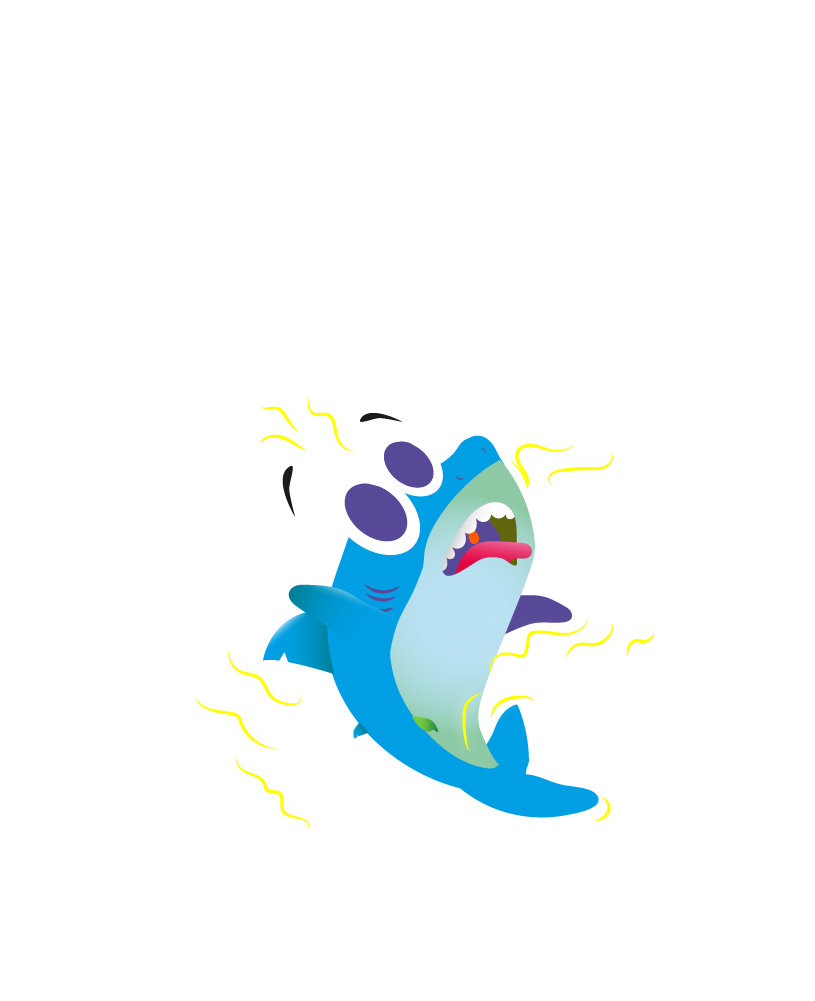
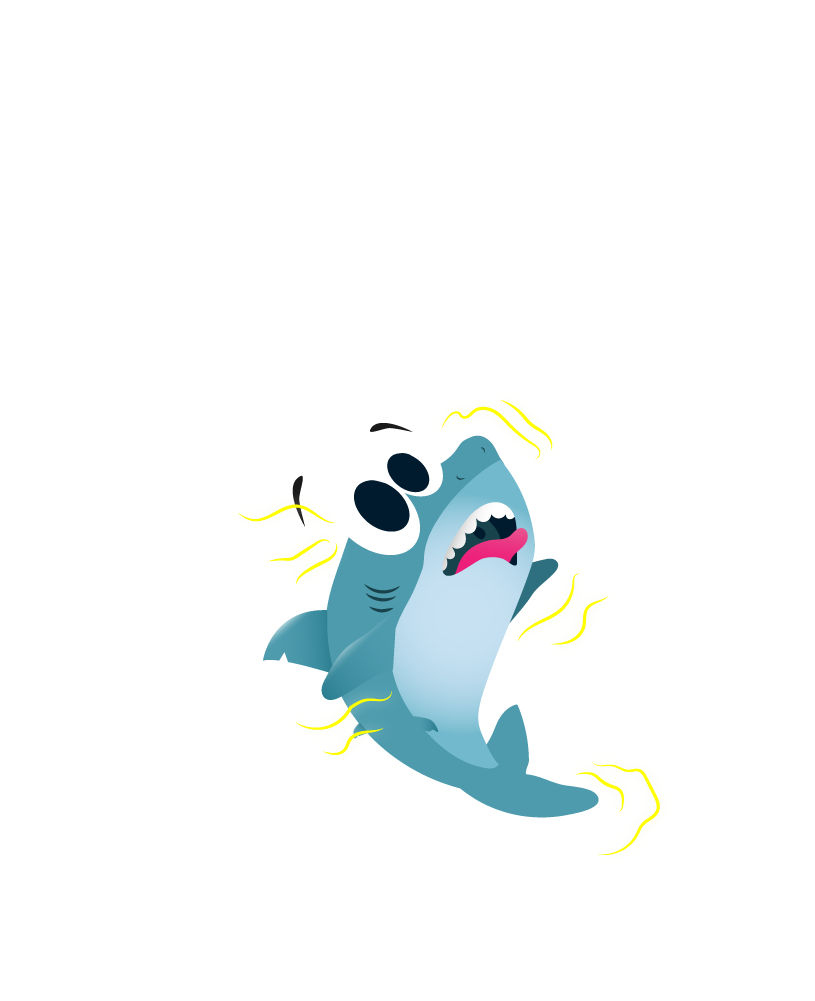
added electric damage and hurt animation

diff --git a/models/character.class.js b/models/character.class.js
@@ -67,6 +67,15 @@ class Character extends MovableObject {
         'img/1.Sharkie/5.Hurt/1.Poisoned/4.png',
     ];
 
+    IMAGES_ELECTRIC_HURT = [
+        'img/1.Sharkie/5.Hurt/2.Electric shock/1.png',
+        'img/1.Sharkie/5.Hurt/2.Electric shock/2.png',
+        'img/1.Sharkie/5.Hurt/2.Electric shock/3.png',
+        'img/1.Sharkie/5.Hurt/2.Electric shock/4.png',
+        'img/1.Sharkie/5.Hurt/2.Electric shock/5.png'
+
+    ];
+
     IMAGES_FINSLAP = [
         'img/1.Sharkie/4.Attack/Fin slap/1.png',
         'img/1.Sharkie/4.Attack/Fin slap/2.png',
@@ -101,6 +110,8 @@ class Character extends MovableObject {
     lastKeyPressTime = Date.now();
     isLongIdle = false;
     currentLongIdleImageIndex = 0;
+    isAlive = true;
+    isElectricHurt = false;
     isFinSlapAnimating = false;
     attackCooldown = false;
     attackCooldownTime = 600;
@@ -117,6 +128,7 @@ class Character extends MovableObject {
         this.loadImages(this.IMAGES_LONG_IDLE);
         this.loadImages(this.IMAGES_DEAD);
         this.loadImages(this.IMAGES_HURT);
+        this.loadImages(this.IMAGES_ELECTRIC_HURT);
         this.loadImages(this.IMAGES_FINSLAP);
         this.loadImages(this.IMAGES_SHOOT);
         this.keyboard = keyboard;
@@ -144,27 +156,34 @@ class Character extends MovableObject {
         this.checkKeyboardInput();
         this.updateCurrentAnimation();
         this.handleMovement();
-
+    
         if (this.isDead()) {
             this.playDeadAnimation(this.IMAGES_DEAD);
             return;
         }
-
-        if (this.isHurt()) {
-            this.playHurtAnimation();
-            return;
+    
+        if (this.isElectricHurt) {
+            // Wenn der Charakter elektrisch verletzt ist, spiele die elektrische Verletzungsanimation
+            this.playElectricHurtAnimation();
+            return; // Beende hier die Funktion, um die normale Hurt Animation zu verhindern
         }
-
+        
+        if (this.isHurt()) {
+            // Wenn der Charakter normal verletzt ist, spiele die Hurt-Animation
+            this.playAnimation(this.IMAGES_HURT);
+            return; // Beende die Funktion, um zu verhindern, dass weitere Animationen gestartet werden
+        }
+    
         if (this.isFinSlapAnimating) {
             this.playFinSlapAnimation();
             return;
         }
-
+    
         this.playCurrentAnimation();
     }
 
-    playHurtAnimation() {
-        this.playAnimation(this.IMAGES_HURT);
+    playElectricHurtAnimation() {
+        this.playAnimation(this.IMAGES_ELECTRIC_HURT);
     }
 
     playCurrentAnimation() {

diff --git a/models/movable-object.class.js b/models/movable-object.class.js
@@ -8,7 +8,7 @@ class MovableObject extends DrawableObject {
 
     isColliding(mo) {
         // Durchführung der Kollisionserkennung mit logischem ODER
-        return !( !(this.getHitbox().x < mo.getHitbox().x + mo.getHitbox().width) ||
+        return !(!(this.getHitbox().x < mo.getHitbox().x + mo.getHitbox().width) ||
             !(this.getHitbox().x + this.getHitbox().width > mo.getHitbox().x) ||
             !(this.getHitbox().y < mo.getHitbox().y + mo.getHitbox().height) ||
             !(this.getHitbox().y + this.getHitbox().height > mo.getHitbox().y));
@@ -16,11 +16,13 @@ class MovableObject extends DrawableObject {
 
     hit() {
         this.energy -= 10;
+        this.world.character.isElectricHurt = false;
         if (this.energy < 0) {
             this.energy = 0;
         } else {
             this.lastHit = new Date().getTime();
         }
+        console.log(world.character.isElectricHurt);
     }
 
     bubbleHit() {
@@ -30,6 +32,25 @@ class MovableObject extends DrawableObject {
         } else {
             this.lastHit = new Date().getTime();
         }
+    }
+
+    electricHit() {
+        this.energy -= 40;
+        this.world.character.isElectricHurt = true;
+
+        if (this.energy < 0) {
+            this.energy = 0;
+        } else {
+            this.lastHit = new Date().getTime();
+        }
+        console.log(this.world.character.isElectricHurt);
+
+        // Setzen Sie einen Timer, um isElectricHurt nach Ablauf einer bestimmten Zeit zu aktualisieren
+        setTimeout(() => {
+            let timePassed = new Date().getTime() - this.lastHit;
+            this.world.character.isElectricHurt = false;
+            console.log(this.world.character.isElectricHurt);
+        }, 1000);
     }
 
     isDead() {

diff --git a/models/world.class.js b/models/world.class.js
@@ -70,10 +70,17 @@ class World {
 
     checkCollisions() {
         this.level.enemies.forEach((enemy, enemyIndex) => {
+            // Überprüfen, ob der Charakter mit einem Gegner kollidiert
             if (this.character.isColliding(enemy)) {
-                this.character.hit();
-                this.statusBar.setPercentage(this.character.energy);
+                if (enemy instanceof SuperJellyFish) {
+                    this.character.electricHit(); 
+                    this.statusBar.setPercentage(this.character.energy);
+                } else {
+                    this.character.hit(); 
+                    this.statusBar.setPercentage(this.character.energy);
+                }
             }
+    
 
             if (enemy.isDead()) {
                 setTimeout(() => {

diff --git a/models/finslap-object.class.js b/models/finslap-object.class.js
@@ -5,7 +5,7 @@ class Finslap extends MovableObject {
         this.x = x;
         this.y = y;
         this.height = 30;
-        this.width = 30;
+        this.width = 40;
         this.damage = 100;
         this.throw();
     }
